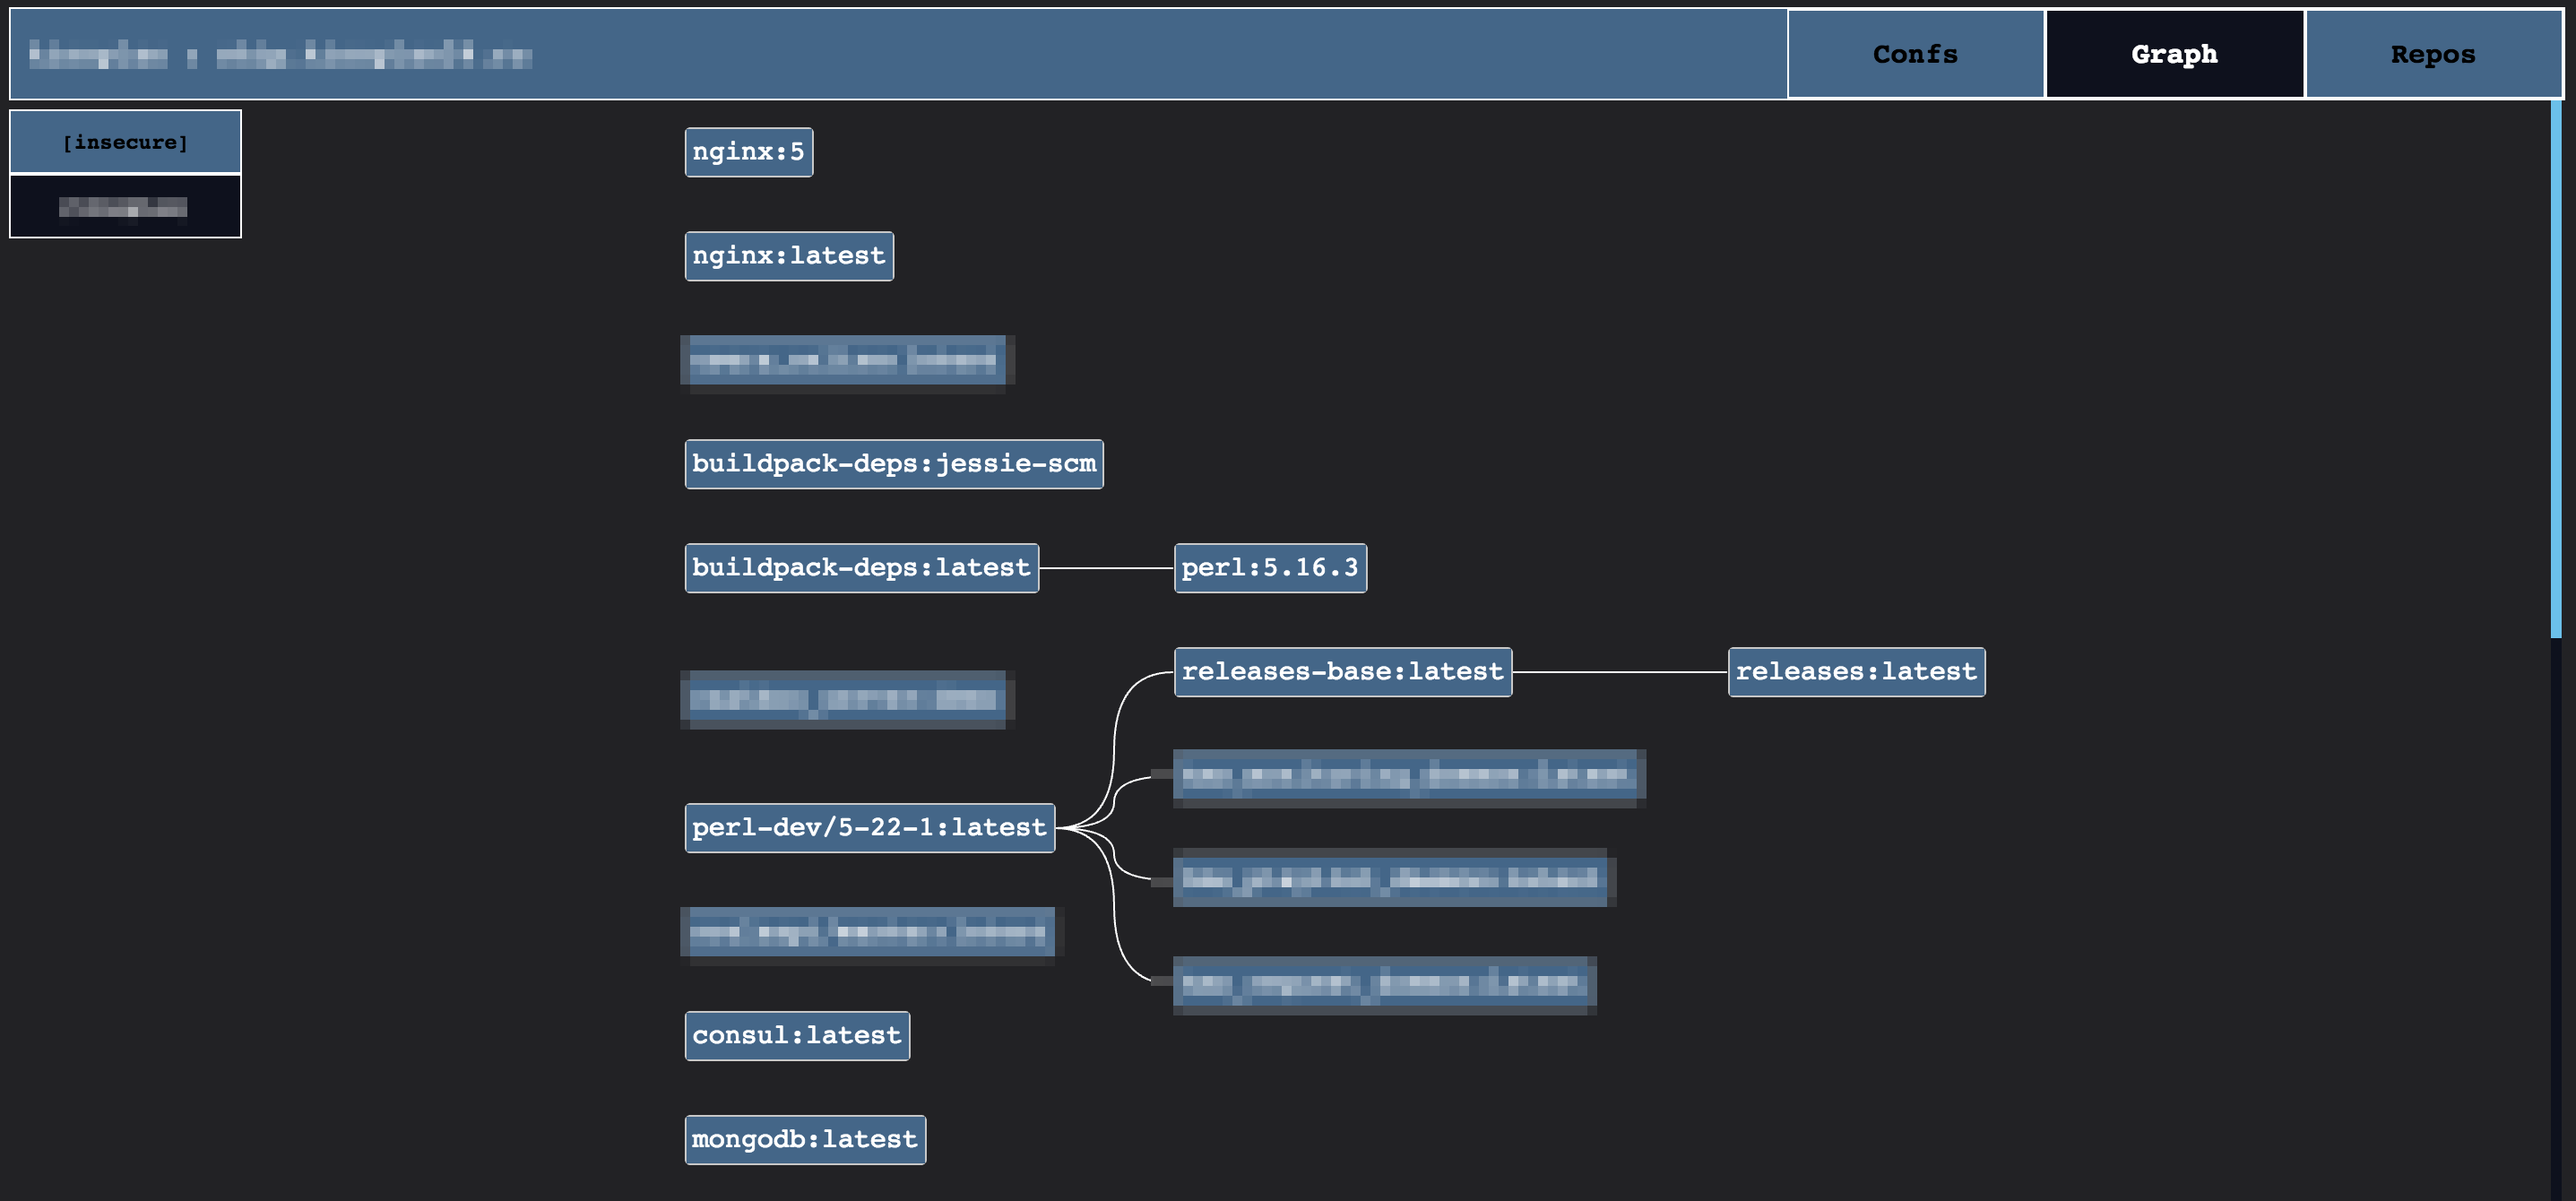
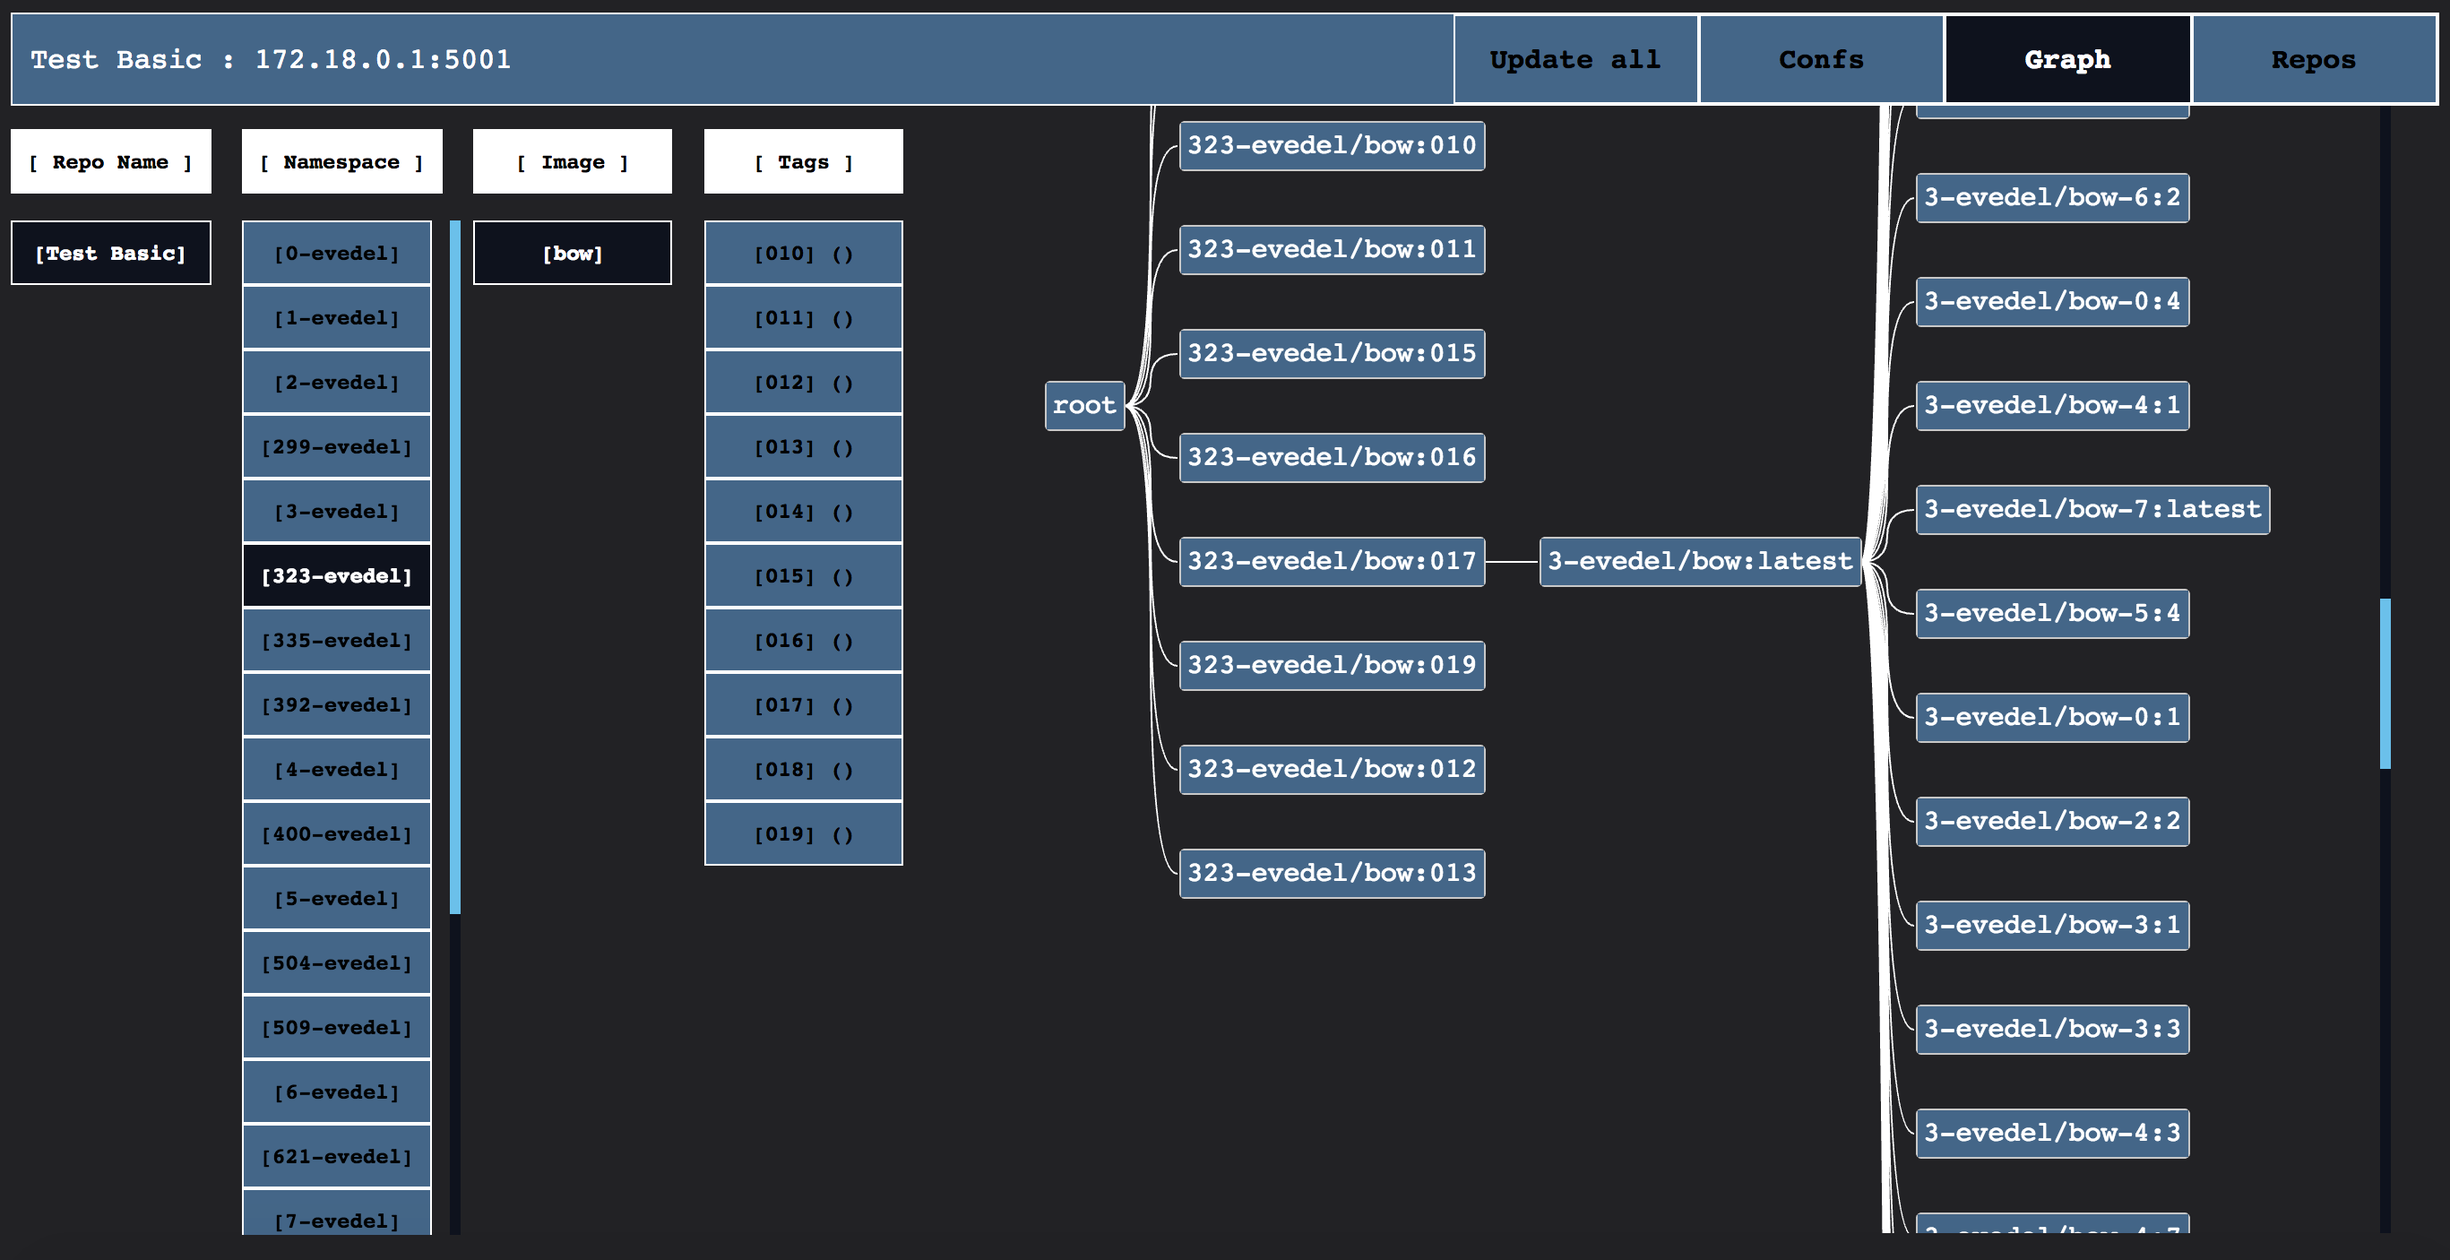
Build 25

diff --git a/README.md b/README.md
@@ -4,13 +4,13 @@ Bow
 
 Pictures
 ==
-![](develop/conf.png)  
+![](img/conf.png)  
 
-![](develop/info.png)
+![](img/info.png)
 
-![](develop/history.png)
+![](img/history.png)
 
-![](develop/parents.png)
+![](img/parents.png)
 
 Features
 ==  
@@ -47,7 +47,7 @@ docker run -d -p 5000:5000 --restart=always --name registry \
 2. Set up cron to run garbage collection  
 Example:  
 `10 * * * * docker exec registry bin/registry garbage-collect /etc/docker/registry/config.yml`  
-3. Also be aware, that there is a known [issue](https://github.com/docker/distribution/issues/1939) in docker registry 2.6.0 and earlier. It means, that if you delete an image from a repository, you will not able to push __the exactly same__ image in that repository. To fix it, you will need to perform rebuilding of image with `--no-cache` mode each time or restarting the registry `docker restart registry` once after deletion.
+3. Also be aware, that there is a known [issue](https://github.com/docker/distribution/issues/1939) in docker registry 2.6.2 and earlier. It means, that if you delete an image from a repository, you will not able to push __the exactly same__ image in that repository. To fix it, you will need to perform rebuilding of image with `--no-cache` mode each time or restarting the registry `docker restart registry` once after deletion.
 
 See more:  
 https://github.com/docker/docker-registry/issues/988#issuecomment-224280919  

diff --git a/NOTE.md b/NOTE.md
@@ -1,6 +1,6 @@
 __BS_LOG_SILENT__ -- level of output logging  
 nothing - ful logging, default  
-`yes`   - only error mesages  
+`yes`   - only error and warn mesages  
 `super` - without any output  
 
 __BS_DB_PATH__ -- path to store your db  
@@ -15,6 +15,10 @@ __BS_SERVE_ADD__ -- port to serve
 __BS_CHECKER_TIMEOUT__ -- timeout for daemons tictac in seconds  
   `300` -- default time to renew data
 
+__BS_TIME_WATCH__ -- timewatch for daemons and handlers  
+  `yes` - print time of execution in log (level2)  
+
+
 BoltDB levels
 ```
 {DB} --{ _info } => [ version:V ]
@@ -26,8 +30,8 @@ BoltDB levels
  (brc){catalog}     '--{ _namesgraph }                                 :
           \                                                            :
  (brcn){imagename[N]}--*--[ _valid => 0 || 1 ]                         :
-            \           \                                              :
-             \           \- { _uploads }---[ date => count ]           :
+            \           \-{ _namepair }-[namespace : name]             :
+             \           \-{ _uploads }---[ date => count ]            :
               \                                                        :
       (brcnt){tags}--*                                                 :
                       \                                                :

diff --git a/CHANGELOG.md b/CHANGELOG.md
@@ -1,3 +1,14 @@
+Build 25
+==
+(2017.08.30)
+
+- Add: namespace level [issue #9](https://github.com/Evedel/bow/issues/9)
+- Add: filters on graph page [issue #9](https://github.com/Evedel/bow/issues/9)
+- Fix: list not only [first 100](https://github.com/docker/distribution/blob/b6e0cfbdaa1ddc3a17c95142c7bf6e42c5567370/registry/handlers/catalog.go#L16) but all of the images [issue #9](https://github.com/Evedel/bow/issues/9)
+- Add: timewatch for handlers and daemons
+- Add: script to fill test repo
+- Fix: loops brake parentgraph when there were copies in repo
+
 Build 24
 ==
 (2017.02.18)
@@ -8,12 +19,12 @@ Build 23
 ==
 (2017.02.18)
 - Fix: Can't authenticate when using a password with percent symbol [issue #7](https://github.com/Evedel/bow/issues/7)
-- Fix: Actualized Tests
+- Fix: Actualised Tests
 
 Build 22
 ==
 (2017.02.04)
-- Fix: panic in parents search for commited images [issue #5](https://github.com/Evedel/bow/issues/5)
+- Fix: panic in parents search for committed images [issue #5](https://github.com/Evedel/bow/issues/5)
 - Autoscroll to chosen element
 
 Build 21
